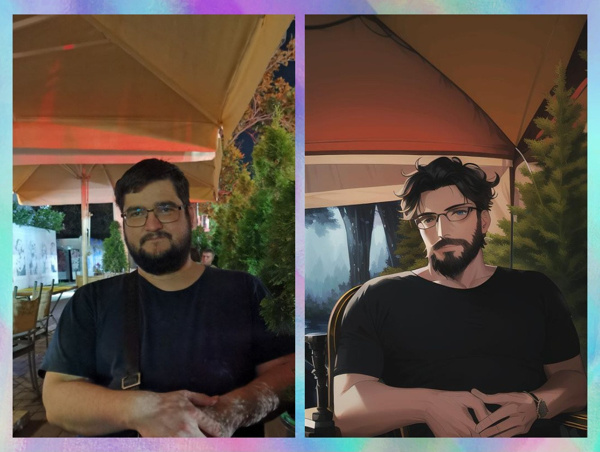
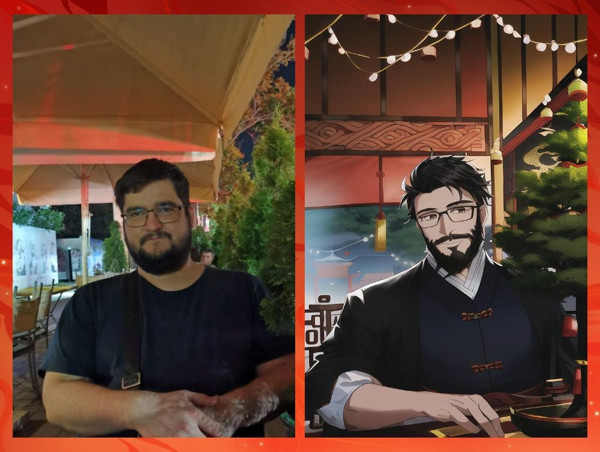
added SPRING mode

diff --git a/index.ts b/index.ts
@@ -140,12 +140,12 @@ const signV1 = (obj: Record<string, unknown>) => {
     );
 };
 
-const qqRequest = async (imgBuffer: Buffer) => {
+const qqRequest = async (mode: typeof config.mode, imgBuffer: Buffer) => {
     const request = async (obj: Record<string, unknown>) => {
         const sign = signV1(obj);
 
         let url = 'https://ai.tu.qq.com/overseas/trpc.shadow_cv.ai_processor_cgi.AIProcessorCgi/Process';
-        if (config.mode === 'AI_PAINTING_ANIME') {
+        if (mode === 'AI_PAINTING_ANIME') {
             url = 'https://ai.tu.qq.com/trpc.shadow_cv.ai_processor_cgi.AIProcessorCgi/Process';
         }
 
@@ -242,7 +242,36 @@ const qqRequest = async (imgBuffer: Buffer) => {
     let singleImgUrl: string | null = null;
     let singleImg: Buffer | null = null;
 
-    switch (config.mode) {
+    switch (mode) {
+        case 'AI_PAINTING_SPRING': {
+            // We don't need to wait for video if it's disabled so we might use the faster way.
+            let busiId = 'ai_painting_spring_entry';
+            if (!config.sendMedia.video) {
+                busiId = 'ai_painting_spring_img_entry';
+            }
+
+            const data = await request({
+                busiId,
+                extra: JSON.stringify({
+                    face_rects: [],
+                    version: 2,
+                    platform: 'web',
+                }),
+                images: [imgBuffer.toString('base64')],
+            });
+
+            const extra = JSON.parse(data.extra);
+
+            if (config.sendMedia.compared || config.sendMedia.single) {
+                comparedImgUrl = extra.img_urls[2];
+            }
+
+            if (config.sendMedia.video) {
+                videoUrl = extra.video_urls[0];
+            }
+            break;
+        }
+
         case 'DIFFERENT_DIMENSION_ME': {
             const data = await request({
                 busiId: 'different_dimension_me_img_entry',
@@ -500,11 +529,18 @@ const onPhotoReceived = async (ctx: Context, userId: number, photoId: string, re
         console.log('Uploading to QQ for ' + userId);
         let imgData;
         try {
-            imgData = await qqRequest(telegramFileData);
+            imgData = await qqRequest(config.mode, telegramFileData);
         } catch (e) {
             if ((e as Error).toString().includes('Face not found')) { // TODO: it shouldn't rely on the text
                 console.log('Face not found, trying to hack for ' + userId);
-                imgData = await qqRequest((await faceHack(telegramFileData)));
+
+                // FaceHack doesn't work with AI_PAINTING_SPRING at all, trying to fallback.
+                let mode = config.mode;
+                if (mode === 'AI_PAINTING_SPRING') {
+                    mode = 'AIGCSDK_AI_PAINTING_ANIME';
+                }
+
+                imgData = await qqRequest(mode, (await faceHack(telegramFileData)));
             } else {
                 throw e;
             }
@@ -524,7 +560,11 @@ const onPhotoReceived = async (ctx: Context, userId: number, photoId: string, re
             imgData.videoUrl ? qqDownload(imgData.videoUrl) : null,
         ]);
 
-        if ((config.mode === 'DIFFERENT_DIMENSION_ME') && config.sendMedia.single && comparedImgData) {
+        if (
+            (
+                config.mode === 'DIFFERENT_DIMENSION_ME' ||
+                config.mode === 'AI_PAINTING_SPRING'
+            ) && config.sendMedia.single && comparedImgData) {
             singleImgData = await cropImage(comparedImgData, 'SINGLE_FROM_COMPARED');
 
             if (!config.sendMedia.compared) {

diff --git a/config.example.ts b/config.example.ts
@@ -1,12 +1,19 @@
 const config: Config = {
-    mode: 'DIFFERENT_DIMENSION_ME', // 'DIFFERENT_DIMENSION_ME' | 'AI_PAINTING_ANIME' | 'AIGCSDK_AI_PAINTING_ANIME'
+    // AI_PAINTING_SPRING
+    // DIFFERENT_DIMENSION_ME
+    // AI_PAINTING_ANIME
+    // AIGCSDK_AI_PAINTING_ANIME
+    mode: 'AI_PAINTING_SPRING',
+
     botToken: 'put_your_token_here',
+
     keepFiles: {
         compared: true,
         input: true,
         single: true,
         video: true,
     },
+
     messages: {
         blocked: 'The Chinese website has blocked the bot, too bad 🤷♂',
         bye:
@@ -16,20 +23,26 @@ const config: Config = {
         media: '@qq\\_neural\\_anime\\_bot',
         received: 'Photo has been received, please wait',
     },
+
     sendMedia: {
-        // DIFFERENT_DIMENSION_ME (high rate limits)
-        // AI_PAINTING_ANIME (high rate limits)
+        // AI_PAINTING_SPRING
+        // DIFFERENT_DIMENSION_ME
+        // AI_PAINTING_ANIME
         compared: true,
 
-        // DIFFERENT_DIMENSION_ME (cropped)
-        // AI_PAINTING_ANIME (slow + high rate limits)
-        // AIGCSDK_AI_PAINTING_ANIME (fast)
+        // AI_PAINTING_SPRING
+        // DIFFERENT_DIMENSION_ME
+        // AI_PAINTING_ANIME
+        // AIGCSDK_AI_PAINTING_ANIME
         single: true,
 
-        // AI_PAINTING_ANIME (slow + high rate limits)
+        // AI_PAINTING_SPRING
+        // AI_PAINTING_ANIME
         video: true,
     },
+
     parallelRequests: 10,
+
     // Uncomment the line below and set your proxy if you need it.
     // proxyUrl: 'socks5://user:password@11.22.33.44:1234',
 };

diff --git a/global.d.ts b/global.d.ts
@@ -2,7 +2,7 @@ export {};
 
 declare global {
     type Config = {
-        mode: 'DIFFERENT_DIMENSION_ME' | 'AI_PAINTING_ANIME' | 'AIGCSDK_AI_PAINTING_ANIME';
+        mode: 'AI_PAINTING_SPRING' | 'DIFFERENT_DIMENSION_ME' | 'AI_PAINTING_ANIME' | 'AIGCSDK_AI_PAINTING_ANIME';
         botToken: string;
         keepFiles: {
             compared: boolean;

diff --git a/README.md b/README.md
@@ -20,13 +20,18 @@ Clone this repo and:
 - run `npm start`
 
 # Mode
-There's option `mode` in `config.ts` which currently takes two values:
+The bot works in different modes, you can switch it in your `config.ts` to the one that suits you better.
 
-- `DIFFERENT_DIMENSION_ME` - default one, has rate limits, could generate double compared images and cropped single images.
-- `AI_PAINTING_ANIME` - a little hack, has rate limits (already) and lets you also generate videos and single images that have better quality. Seems like it works only with Chinese proxies.
-- `AIGCSDK_AI_PAINTING_ANIME` - another hack that generates single images much faster and has lower rate limits (yet).
+It might produce single images, compared images and videos in different styles and quality.
 
-**Remember that all modes are unstable and their behavior may change at any time!**
+All modes are unstable and their behavior may change at any time.
+
+| Mode                      |  Style  | Single  | Compared | Video | Rate limits | Availability   |
+| :---                      |  :---:  |  :---:  |  :---:   | :---: |    :---:    |     :---:      |
+| AI_PAINTING_SPRING        | Spring  | Cropped | +        | Slow  | -           | Most countries |
+| DIFFERENT_DIMENSION_ME    | Classic | Cropped | +        | -     | High        | Most countries |
+| AI_PAINTING_ANIME         | Classic | Slow    | +        | Slow  | High        | China only     |
+| AIGCSDK_AI_PAINTING_ANIME | Classic | Fast    | -        | -     | Low         | Most countries |
 
 # Proxies
 In some countries the AI doesn't work at all so if it is your case you have to use some proxy.
